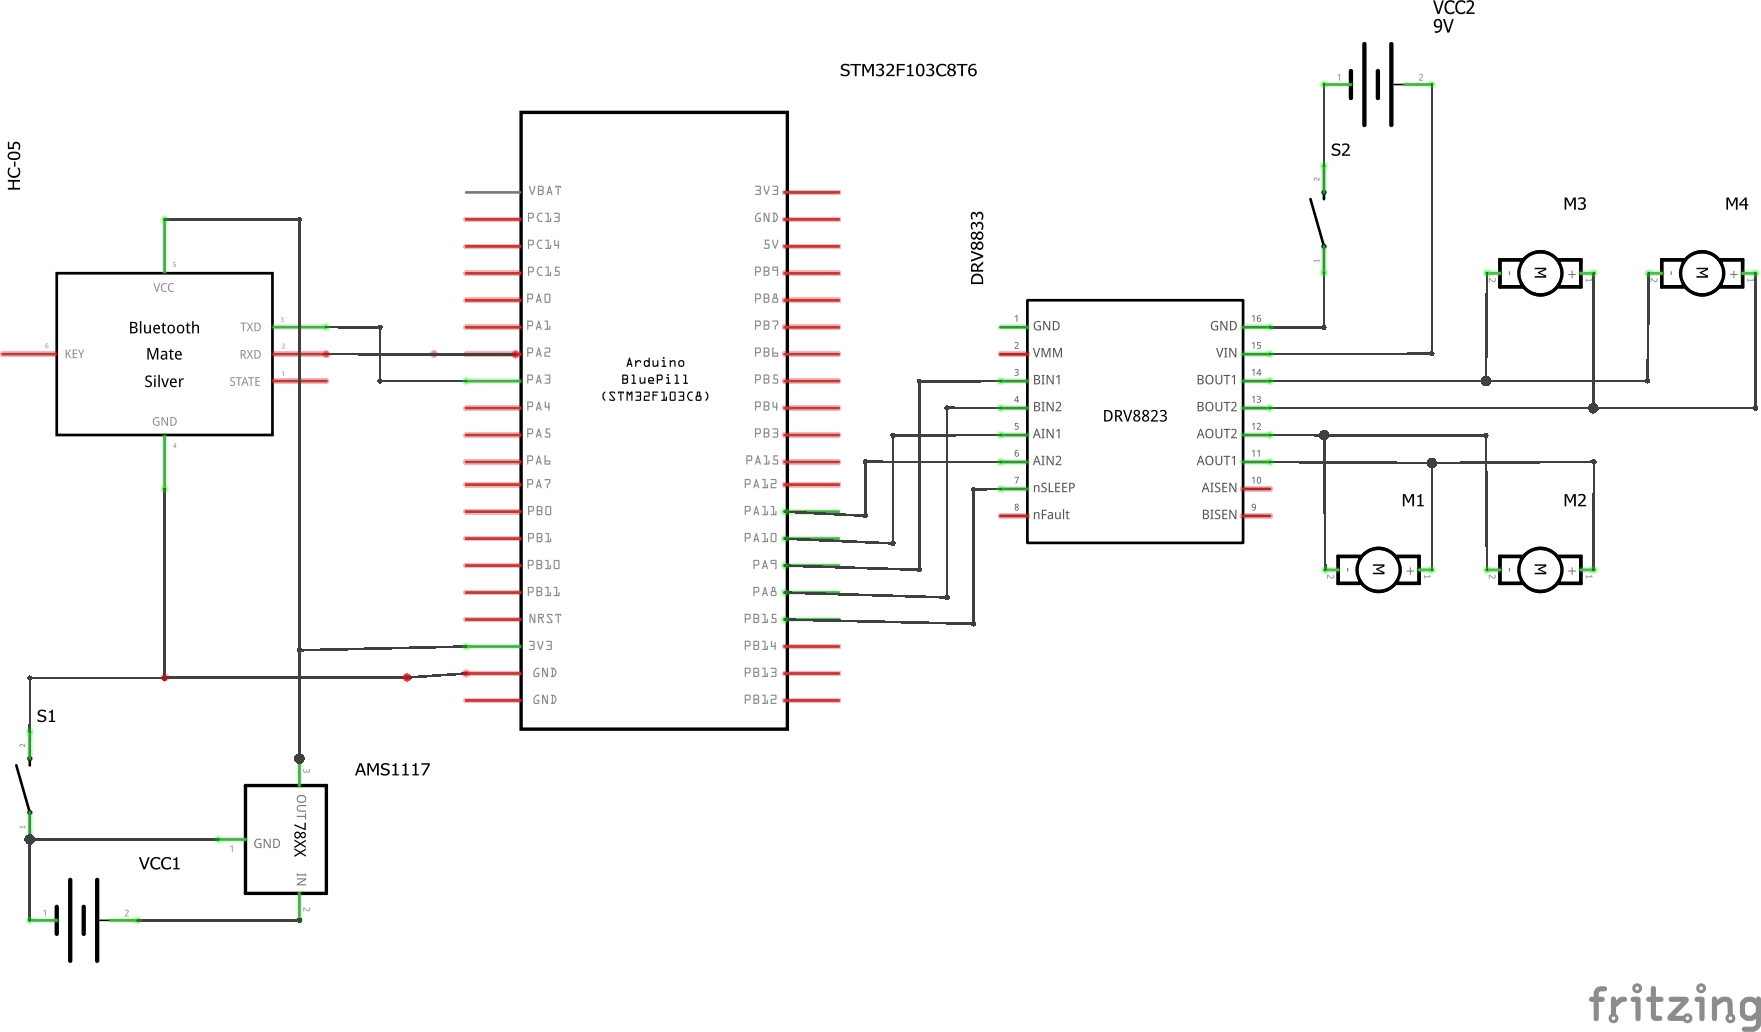
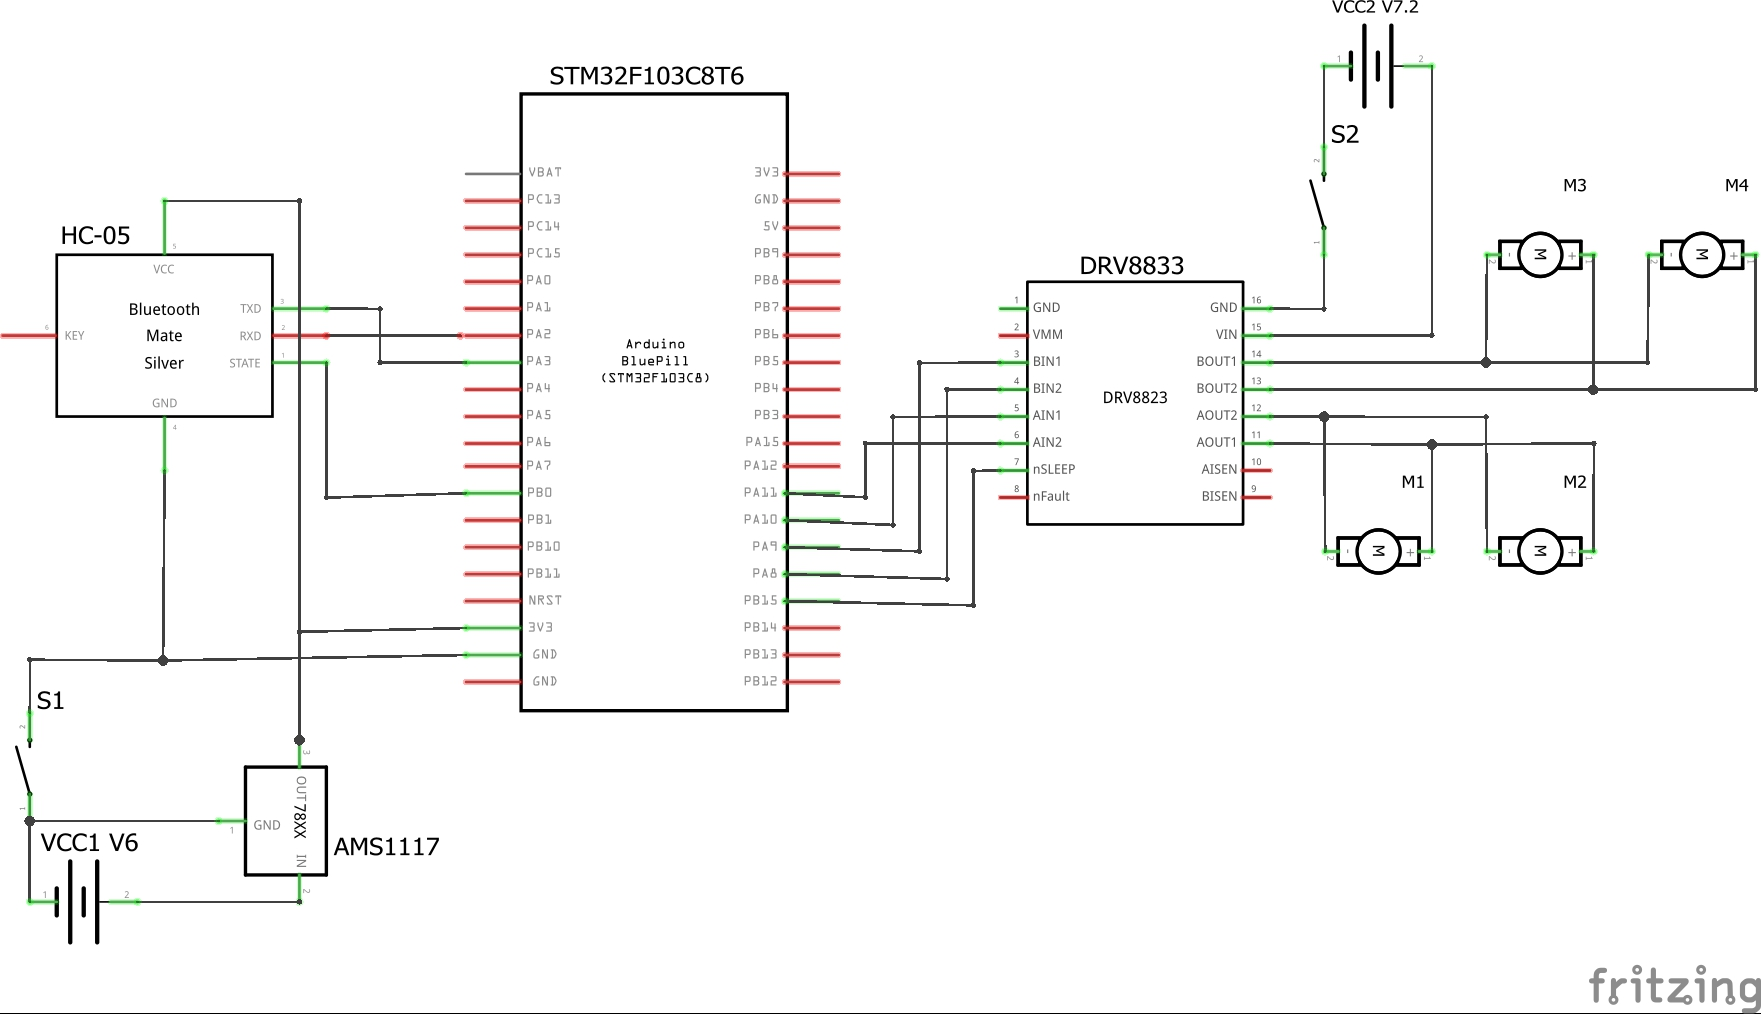
added HC-05 paired control

diff --git a/car_controller/Core/Src/main.c b/car_controller/Core/Src/main.c
@@ -22,6 +22,7 @@
 /* Private includes ----------------------------------------------------------*/
 /* USER CODE BEGIN Includes */
 #include "motor.h"
+#include "stdbool.h"
 /* USER CODE END Includes */
 
 /* Private typedef -----------------------------------------------------------*/
@@ -44,6 +45,7 @@ UART_HandleTypeDef huart2;
 
 /* USER CODE BEGIN PV */
 uint8_t rx_buffer[RX_BUFFER_LEN] = {0};
+bool is_paired;
 /* USER CODE END PV */
 
 /* Private function prototypes -----------------------------------------------*/
@@ -97,12 +99,19 @@ int main(void)
   /* USER CODE BEGIN WHILE */
   while (1)
   {
+	  is_paired = HAL_GPIO_ReadPin(GPIOB, GPIO_PIN_0);
+	  if (is_paired) {
+		  if ((char) rx_buffer[0] == 'F')		move_forward();
+		  	  else if ((char) rx_buffer[0] == 'B')	move_backward();
+		  	  else if ((char) rx_buffer[0] == 'H') 	halt();
+		  	  else if ((char) rx_buffer[0] == 'R')	move_right();
+		  	  else if ((char) rx_buffer[0] == 'L') 	move_left();
+	} else {
+		halt();
+	}
+
     /* USER CODE END WHILE */
-	  if ((char) rx_buffer[0] == 'F')		move_forward();
-	  else if ((char) rx_buffer[0] == 'B')	move_backward();
-	  else if ((char) rx_buffer[0] == 'H') 	halt();
-	  else if ((char) rx_buffer[0] == 'R')	move_right();
-	  else if ((char) rx_buffer[0] == 'L') 	move_left();
+
     /* USER CODE BEGIN 3 */
   }
   /* USER CODE END 3 */
@@ -201,6 +210,12 @@ static void MX_GPIO_Init(void)
 
   /*Configure GPIO pin Output Level */
   HAL_GPIO_WritePin(GPIOA, GPIO_PIN_8|GPIO_PIN_9|GPIO_PIN_10|GPIO_PIN_11, GPIO_PIN_RESET);
+
+  /*Configure GPIO pin : PB0 */
+  GPIO_InitStruct.Pin = GPIO_PIN_0;
+  GPIO_InitStruct.Mode = GPIO_MODE_INPUT;
+  GPIO_InitStruct.Pull = GPIO_NOPULL;
+  HAL_GPIO_Init(GPIOB, &GPIO_InitStruct);
 
   /*Configure GPIO pin : PB15 */
   GPIO_InitStruct.Pin = GPIO_PIN_15;
